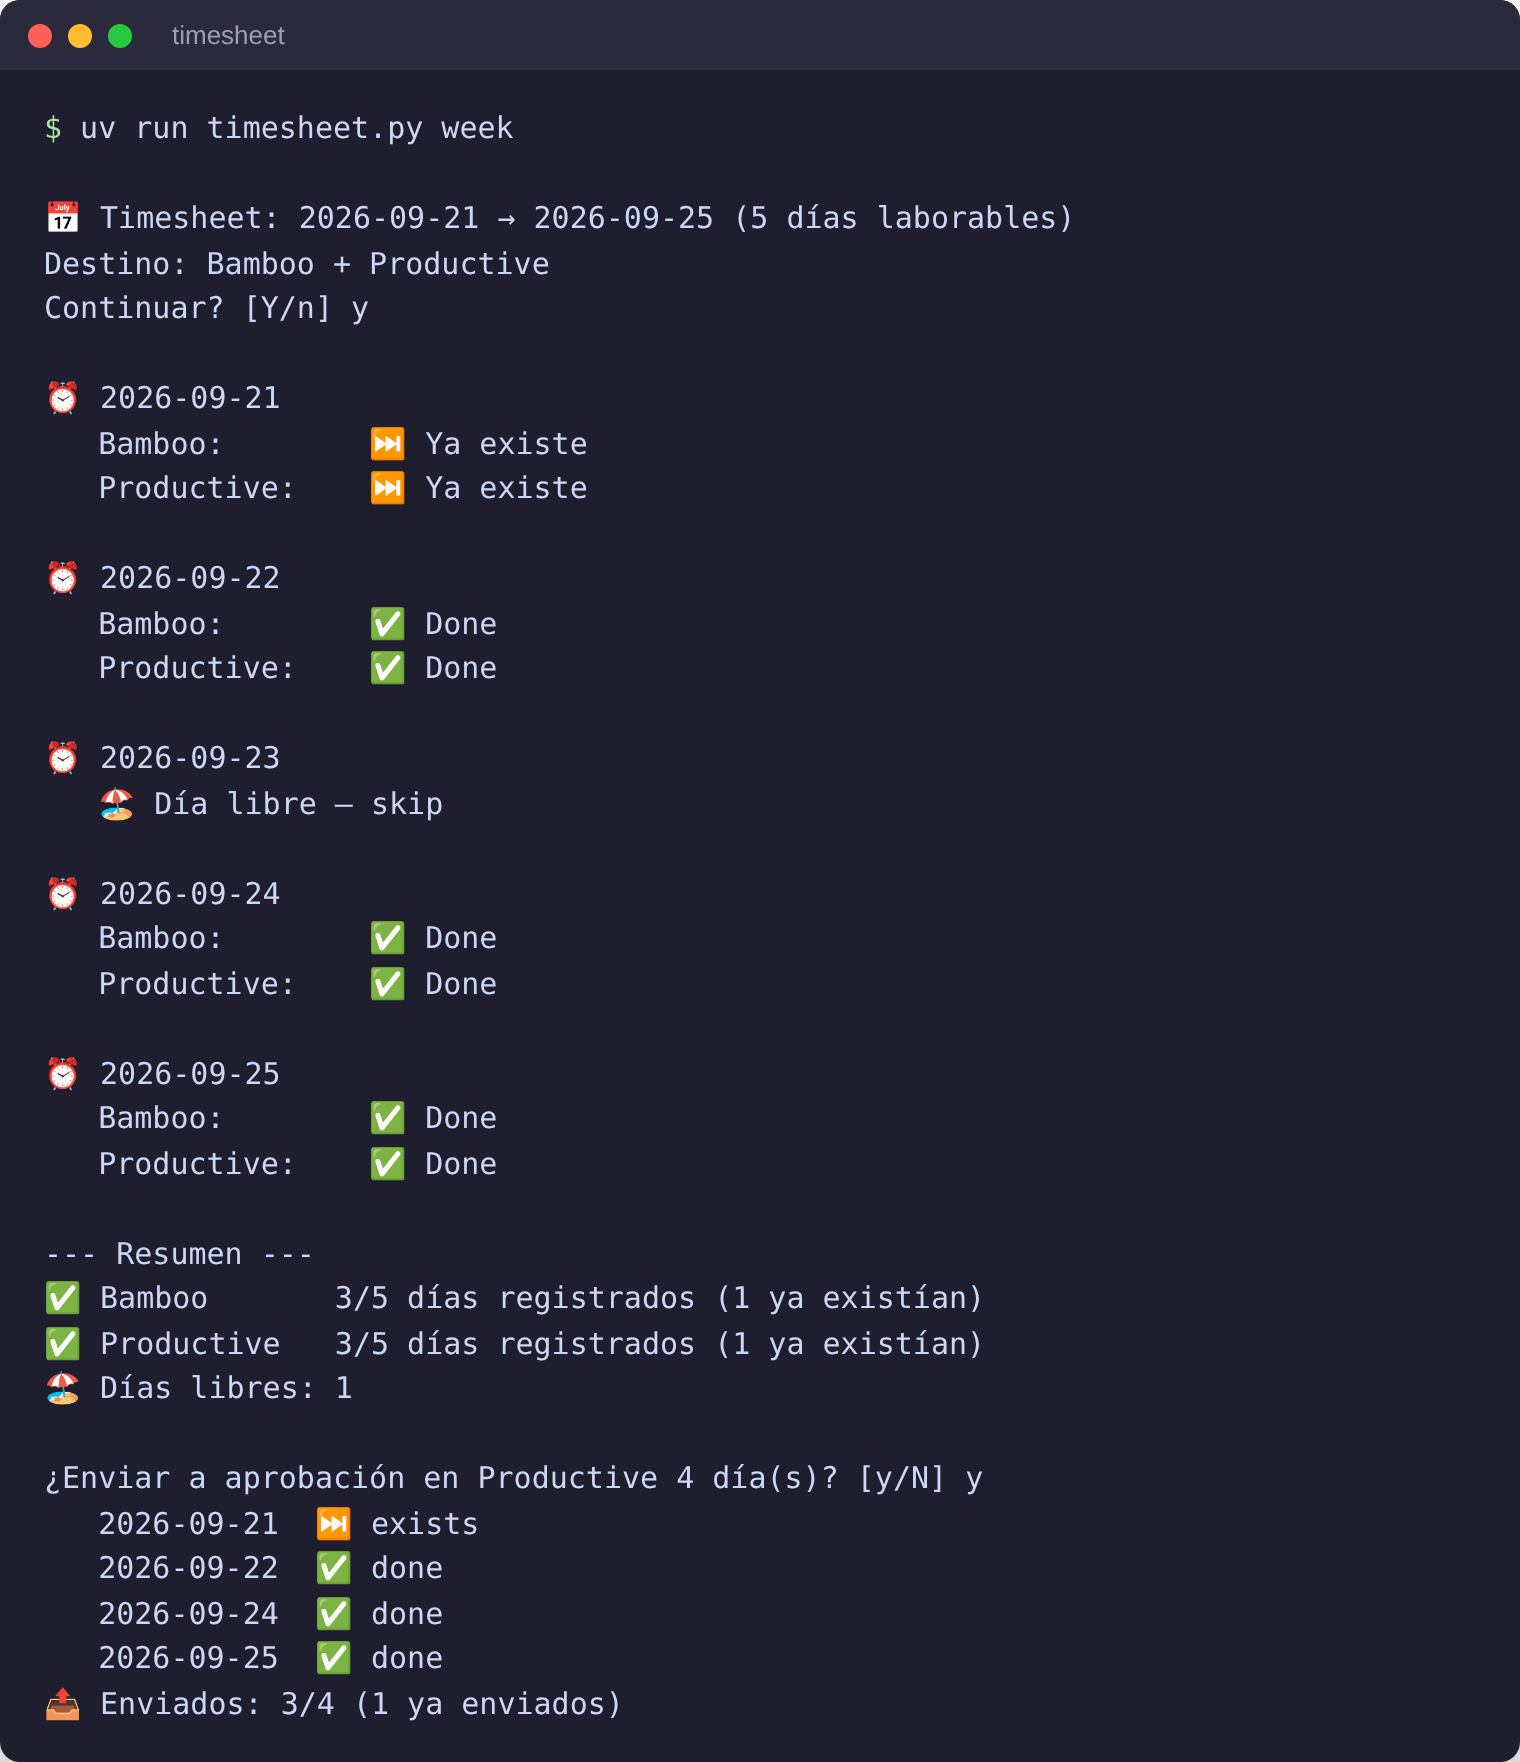
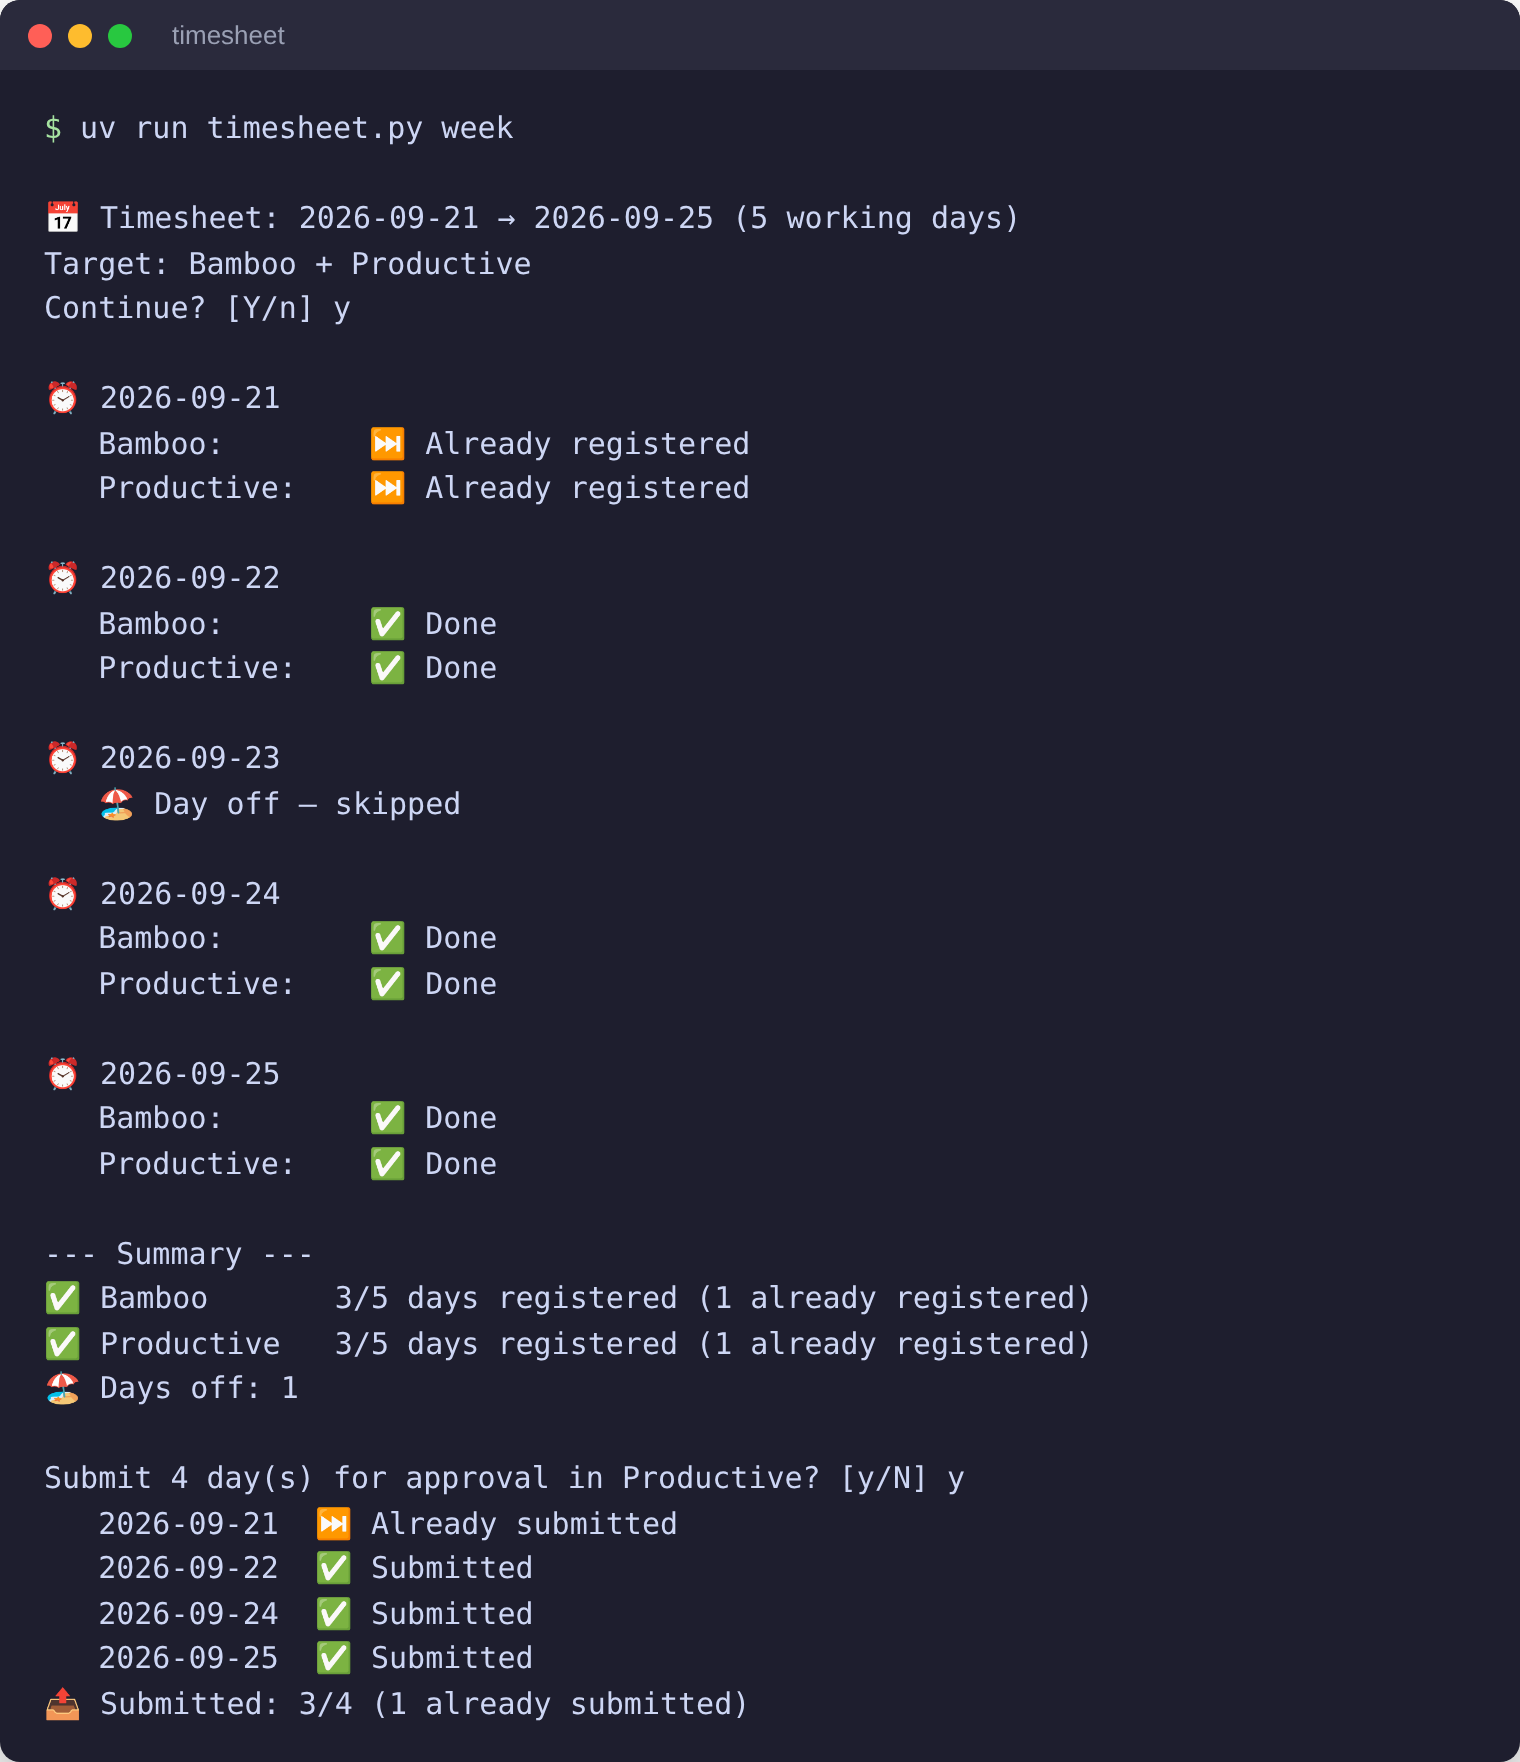
chore: translate to English and remove internal planning docs
- Translate CLI output, help text, docstrings and test comments to English
- Show readable labels for the Productive submit step
- Remove docs/superpowers (internal implementation plans)
- Regenerate README screenshots

Claude-Session: https://claude.ai/code/session_0189PSYWUsAeEJ6oALCPe1a1

diff --git a/timesheet.py b/timesheet.py
@@ -17,26 +17,26 @@ def main():
     start_date, end_date, provider_names, skip_confirm = parse_args(sys.argv[1:])
     days = working_days(start_date, end_date)
 
-    # BambooHR siempre es necesario: se usa para detectar días libres
+    # BambooHR is always required: it is used to detect days off
     required = list(bamboo.REQUIRED_ENV)
     if "productive" in provider_names:
         required += productive.REQUIRED_ENV
     missing = missing_env(tuple(required))
     if missing:
-        print("❌ Faltan variables en .env:")
+        print("❌ Missing variables in .env:")
         for name in missing:
             print(f"   - {name}")
-        print("   Copia .env.example a .env y complétalo (ver README).")
+        print("   Copy .env.example to .env and fill it in (see README).")
         sys.exit(1)
 
     provider_label = " + ".join(p.capitalize() for p in provider_names)
-    print(f"\n📅 Timesheet: {start_date} → {end_date} ({len(days)} días laborables)")
-    print(f"Destino: {provider_label}")
+    print(f"\n📅 Timesheet: {start_date} → {end_date} ({len(days)} working days)")
+    print(f"Target: {provider_label}")
 
     if not skip_confirm:
-        answer = input("Continuar? [Y/n] ").strip().lower()
+        answer = input("Continue? [Y/n] ").strip().lower()
         if answer and answer != "y":
-            print("Cancelado.")
+            print("Cancelled.")
             sys.exit(0)
 
     stats = {name: {"done": 0, "exists": 0, "error": 0} for name in provider_names}
@@ -47,7 +47,7 @@ def main():
         print(f"\n⏰ {day}")
 
         if bamboo.is_off_day(day):
-            print("   🏖 Día libre — skip")
+            print("   🏖 Day off — skipped")
             off_days += 1
             continue
 
@@ -55,7 +55,7 @@ def main():
             provider = PROVIDERS[name]
             label = f"   {name.capitalize() + ':':15}"
             if provider.has_entries(day):
-                print(f"{label}⏭ Ya existe")
+                print(f"{label}⏭ Already registered")
                 stats[name]["exists"] += 1
                 if name == "productive":
                     productive_days.append(day)
@@ -68,35 +68,39 @@ def main():
                 print(f"{label}❌ Error")
                 stats[name]["error"] += 1
 
-    print(f"\n--- Resumen ---")
+    print("\n--- Summary ---")
     for name in provider_names:
         s = stats[name]
         parts = []
         if s["exists"]:
-            parts.append(f"{s['exists']} ya existían")
+            parts.append(f"{s['exists']} already registered")
         if s["error"]:
-            parts.append(f"{s['error']} errores")
+            parts.append(f"{s['error']} errors")
         detail = f" ({', '.join(parts)})" if parts else ""
-        print(f"✅ {name.capitalize():12} {s['done']}/{len(days)} días registrados{detail}")
+        print(f"✅ {name.capitalize():12} {s['done']}/{len(days)} days registered{detail}")
     if off_days:
-        print(f"🏖 Días libres: {off_days}")
+        print(f"🏖 Days off: {off_days}")
 
     if productive_days:
-        answer = input(f"\n¿Enviar a aprobación en Productive {len(productive_days)} día(s)? [y/N] ").strip().lower()
+        answer = input(f"\nSubmit {len(productive_days)} day(s) for approval in Productive? [y/N] ").strip().lower()
         if answer == "y":
             submit_stats = {"done": 0, "exists": 0, "error": 0}
             for day in productive_days:
                 result = productive.submit_day(day)
-                icon = {"done": "✅", "exists": "⏭", "error": "❌"}[result]
-                print(f"   {day}  {icon} {result}")
+                icon, text = {
+                    "done": ("✅", "Submitted"),
+                    "exists": ("⏭", "Already submitted"),
+                    "error": ("❌", "Error"),
+                }[result]
+                print(f"   {day}  {icon} {text}")
                 submit_stats[result] += 1
             parts = []
             if submit_stats["exists"]:
-                parts.append(f"{submit_stats['exists']} ya enviados")
+                parts.append(f"{submit_stats['exists']} already submitted")
             if submit_stats["error"]:
-                parts.append(f"{submit_stats['error']} errores")
+                parts.append(f"{submit_stats['error']} errors")
             detail = f" ({', '.join(parts)})" if parts else ""
-            print(f"📤 Enviados: {submit_stats['done']}/{len(productive_days)}{detail}")
+            print(f"📤 Submitted: {submit_stats['done']}/{len(productive_days)}{detail}")
 
 
 if __name__ == "__main__":

diff --git a/timesheet/common.py b/timesheet/common.py
@@ -9,15 +9,15 @@ def _today() -> datetime.date:
 
 def parse_args(argv: list[str]) -> tuple[datetime.date, datetime.date, list[str], bool]:
     """
-    Parsea argumentos del CLI.
-    Devuelve (start_date, end_date, providers, skip_confirm).
+    Parse CLI arguments.
+    Return (start_date, end_date, providers, skip_confirm).
     """
     parser = argparse.ArgumentParser(description="Timesheet multi-provider")
-    parser.add_argument("period", nargs="*", default=[], help="Período: today, week, month, last-month, DD, o DD-MM-YYYY DD-MM-YYYY")
-    parser.add_argument("--bamboo", action="store_true", help="Solo BambooHR")
-    parser.add_argument("--productive", action="store_true", help="Solo Productive.io")
-    parser.add_argument("--both", action="store_true", help="Ambos proveedores")
-    parser.add_argument("-y", "--yes", action="store_true", help="Saltar confirmación")
+    parser.add_argument("period", nargs="*", default=[], help="Period: today, week, month, last-month, DD, or DD-MM-YYYY DD-MM-YYYY")
+    parser.add_argument("--bamboo", action="store_true", help="BambooHR only")
+    parser.add_argument("--productive", action="store_true", help="Productive.io only")
+    parser.add_argument("--both", action="store_true", help="Both providers (default)")
+    parser.add_argument("-y", "--yes", action="store_true", help="Skip confirmation")
     args = parser.parse_args(argv)
 
     today = _today()
@@ -58,13 +58,13 @@ def parse_args(argv: list[str]) -> tuple[datetime.date, datetime.date, list[str]
         start_date = datetime.datetime.strptime(period[0], "%d-%m-%Y").date()
         end_date = datetime.datetime.strptime(period[1], "%d-%m-%Y").date()
     else:
-        parser.error("Demasiados argumentos de período")
+        parser.error("Too many period arguments")
 
     return start_date, end_date, providers, args.yes
 
 
 def working_days(start: datetime.date, end: datetime.date) -> list[datetime.date]:
-    """Días de lunes a viernes en el rango [start, end]."""
+    """Monday-to-Friday days in the range [start, end]."""
     days = []
     current = start
     while current <= end:
@@ -75,5 +75,5 @@ def working_days(start: datetime.date, end: datetime.date) -> list[datetime.date
 
 
 def missing_env(names: tuple[str, ...]) -> list[str]:
-    """Variables de entorno requeridas que no están definidas o están vacías."""
+    """Required environment variables that are unset or empty."""
     return [name for name in names if not os.getenv(name)]

diff --git a/timesheet/productive.py b/timesheet/productive.py
@@ -27,7 +27,7 @@ HEADERS = {
 
 
 def _get_entries(date: datetime.date) -> list:
-    """Devuelve las entradas de tiempo para ese día."""
+    """Return the time entries for that day."""
     date_str = date.strftime("%Y-%m-%d")
     url = f"{BASE_URL}/time_entries"
     params = {
@@ -45,15 +45,15 @@ def _get_entries(date: datetime.date) -> list:
 
 
 def has_entries(date: datetime.date) -> bool:
-    """True si ya hay entradas con tiempo real (>0 min) para ese día."""
+    """True if there are entries with actual time (>0 min) for that day."""
     return any(e.get("attributes", {}).get("time", 0) > 0 for e in _get_entries(date))
 
 
 def clock_day(date: datetime.date) -> bool:
-    """Registra 8h (480 min) en Productive. Si hay entrada de 0min, la actualiza."""
+    """Log 8h (480 min) in Productive. Update an existing 0-minute entry if present."""
     date_str = date.strftime("%Y-%m-%d")
 
-    # Si hay una entrada de 0min, actualizarla en vez de crear duplicada
+    # If there is a 0-minute entry, update it instead of creating a duplicate
     for entry in _get_entries(date):
         if entry.get("attributes", {}).get("time", 0) == 0:
             entry_id = entry["id"]
@@ -71,7 +71,7 @@ def clock_day(date: datetime.date) -> bool:
                 return False
             return response.status_code == 200
 
-    # No hay entrada previa, crear nueva
+    # No previous entry, create a new one
     payload = {
         "data": {
             "type": "time_entries",
@@ -98,7 +98,7 @@ def clock_day(date: datetime.date) -> bool:
 
 
 def submit_day(date: datetime.date) -> str:
-    """Envía a aprobación el día indicado. Devuelve 'done', 'exists' o 'error'."""
+    """Submit the given day for approval. Return 'done', 'exists' or 'error'."""
     date_str = date.strftime("%Y-%m-%d")
     payload = {
         "data": {

diff --git a/timesheet/bamboo.py b/timesheet/bamboo.py
@@ -15,7 +15,7 @@ REQUIRED_ENV = ("BAMBOO_SUBDOMAIN", "BAMBOO_EMPLOYEE_ID", "BAMBOO_API_KEY")
 
 
 def is_off_day(date: datetime.date) -> bool:
-    """True si hay solicitud de tiempo libre aprobada para ese día."""
+    """True if there is an approved time-off request for that day."""
     url = f"{BASE_URL}/time_off/requests"
     params = {
         "employeeId": EMPLOYEE_ID,
@@ -37,7 +37,7 @@ def is_off_day(date: datetime.date) -> bool:
 
 
 def has_entries(date: datetime.date) -> bool:
-    """True si ya hay entradas de timesheet para ese día."""
+    """True if there are already timesheet entries for that day."""
     date_str = date.strftime("%Y-%m-%d")
     url = f"{BASE_URL}/time_tracking/timesheet_entries"
     params = {
@@ -58,7 +58,7 @@ def has_entries(date: datetime.date) -> bool:
 
 
 def clock_day(date: datetime.date) -> bool:
-    """Registra 2 entradas de reloj (08-13, 14-17). Devuelve True si éxito."""
+    """Create two clock entries (08-13, 14-17). Return True on success."""
     date_str = date.strftime("%Y-%m-%d")
     payload = {
         "entries": [

diff --git a/tests/test_cli.py b/tests/test_cli.py
@@ -4,7 +4,7 @@ from timesheet.common import parse_args, working_days
 
 
 def test_full_flow_no_args_defaults_to_today():
-    """Sin argumentos = hoy + ambos providers."""
+    """No arguments = today + both providers."""
     today = datetime.date(2026, 4, 10)
     with patch("timesheet.common._today", return_value=today):
         start, end, providers, skip = parse_args([])
@@ -13,7 +13,7 @@ def test_full_flow_no_args_defaults_to_today():
 
 
 def test_full_flow_month_productive_only():
-    """month --productive = mes actual, solo productive."""
+    """month --productive = current month, productive only."""
     today = datetime.date(2026, 4, 10)
     with patch("timesheet.common._today", return_value=today):
         start, end, providers, skip = parse_args(["month", "--productive", "-y"])

diff --git a/tests/test_productive.py b/tests/test_productive.py
@@ -76,7 +76,7 @@ def test_clock_day_sends_correct_payload(mock_post, mock_entries):
 ])
 @patch("timesheet.productive.requests.patch")
 def test_clock_day_patches_zero_entry(mock_patch, mock_entries):
-    """Si hay entrada de 0min, la actualiza con PATCH en vez de crear nueva."""
+    """If there is a 0-minute entry, PATCH it instead of creating a new one."""
     mock_patch.return_value = _mock_response(200)
     assert clock_day(DATE) is True
     call_url = mock_patch.call_args[0][0]

diff --git a/README.md b/README.md
@@ -184,13 +184,13 @@ uv run timesheet.py last-month --productive
 uv run timesheet.py 01-03-2025 31-03-2025
 ```
 
-Running the same period twice is safe: days already registered are reported as `⏭ Ya existe` and left untouched.
+Running the same period twice is safe: days already registered are reported as `⏭ Already registered` and left untouched.
 
 ## Troubleshooting
 
 | Symptom | Likely cause |
 |---|---|
-| `❌ Faltan variables en .env` | `.env` does not exist or has empty values. Repeat [step 4](#4-create-your-configuration-file). |
+| `❌ Missing variables in .env` | `.env` does not exist or has empty values. Repeat [step 4](#4-create-your-configuration-file). |
 | `❌ Error` on every day for BambooHR | Wrong `BAMBOO_SUBDOMAIN`, employee ID or API key, or your account cannot use time tracking. |
 | `❌ Error` on every day for Productive.io | Wrong token, organization ID, person ID or service ID. |
 | Days off are not skipped | The time-off request is not approved yet in BambooHR. |
@@ -213,7 +213,7 @@ timesheet/
 │   ├── bamboo.py         # BambooHR: is_off_day, has_entries, clock_day
 │   └── productive.py     # Productive.io: has_entries, clock_day, submit_day
 ├── tests/                # pytest suite (HTTP mocked)
-├── docs/                 # Design notes and README images
+├── docs/images/          # README screenshots
 ├── .env.example          # Configuration template
 └── pyproject.toml
 ```
